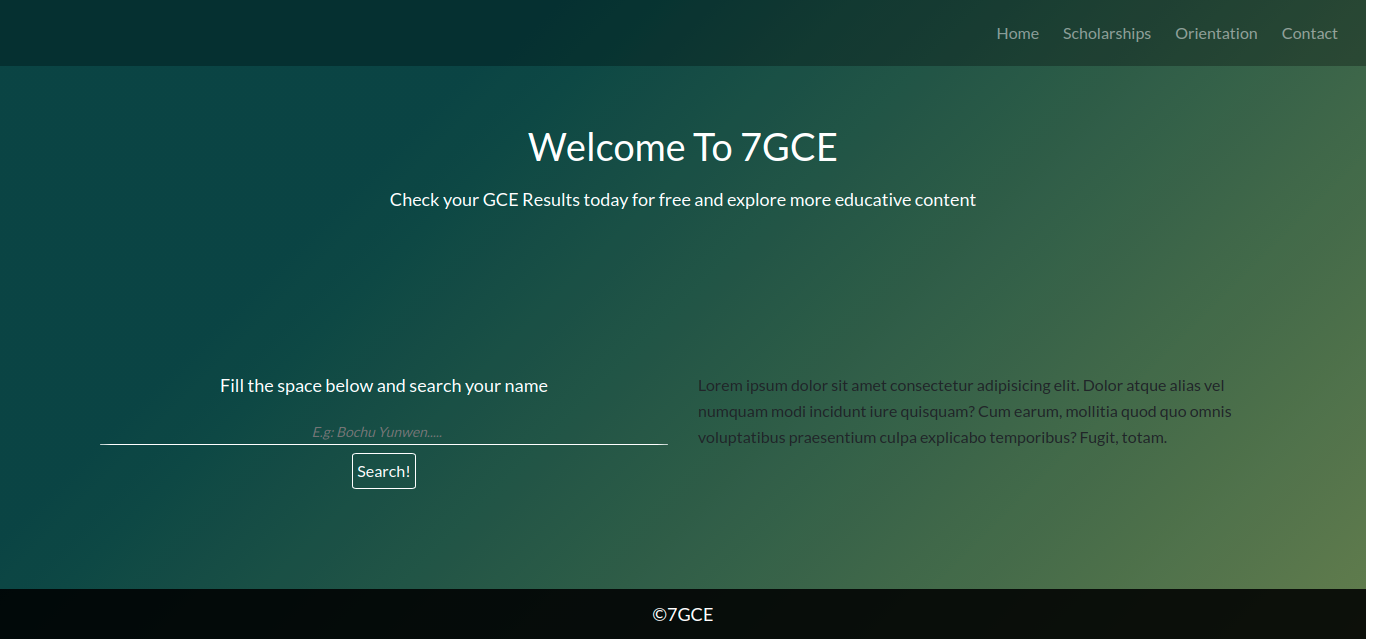
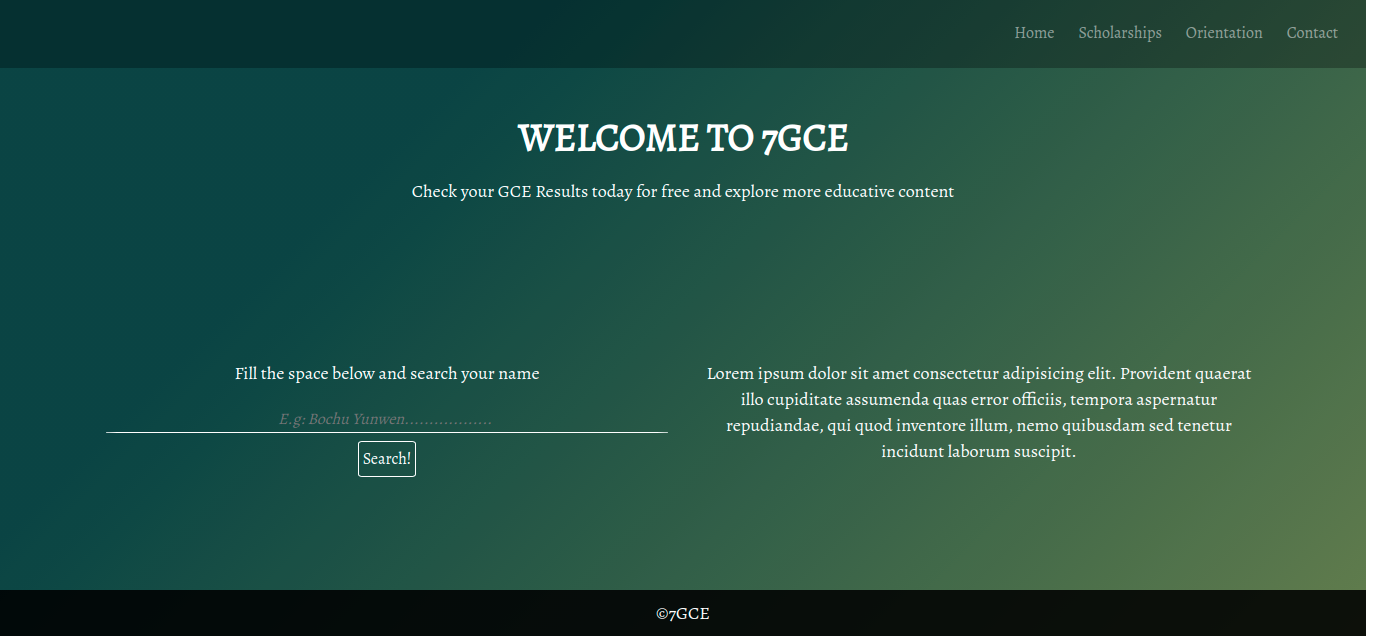
landing page update

diff --git a/index.html b/index.html
@@ -11,20 +11,27 @@
     <link rel="stylesheet" href="stylesheets/bootstrap-4/css/bootstrap.css" /> -->
 
     <!-- Online CDNs -->
-    <link href="https://stackpath.bootstrapcdn.com/bootstrap/4.5.0/css/bootstrap.min.css" rel="stylesheet"
-        integrity="sha384-9aIt2nRpC12Uk9gS9baDl411NQApFmC26EwAOH8WgZl5MYYxFfc+NcPb1dKGj7Sk" crossorigin="anonymous">
-    <script src="https://stackpath.bootstrapcdn.com/bootstrap/4.5.0/js/bootstrap.min.js"
-        integrity="sha384-OgVRvuATP1z7JjHLkuOU7Xw704+h835Lr+6QL9UvYjZE3Ipu6Tp75j7Bh/kR0JKI"
+    <meta name="viewport"
+        content="user-scalable=no, initial-scale=1, maximum-scale=1, minimum-scale=1, width=320, height=device-height, target-densitydpi=medium-dpi">
+    <link rel="stylesheet" href="https://maxcdn.bootstrapcdn.com/bootstrap/4.0.0/css/bootstrap.min.css"
+        integrity="sha384-Gn5384xqQ1aoWXA+058RXPxPg6fy4IWvTNh0E263XmFcJlSAwiGgFAW/dAiS6JXm" crossorigin="anonymous">
+    <script src="https://code.jquery.com/jquery-3.2.1.slim.min.js"
+        integrity="sha384-KJ3o2DKtIkvYIK3UENzmM7KCkRr/rE9/Qpg6aAZGJwFDMVNA/GpGFF93hXpG5KkN"
         crossorigin="anonymous"></script>
-    <script src="https://stackpath.bootstrapcdn.com/bootstrap/4.5.0/js/bootstrap.bundle.min.js"
-        integrity="sha384-1CmrxMRARb6aLqgBO7yyAxTOQE2AKb9GfXnEo760AUcUmFx3ibVJJAzGytlQcNXd"
+    <script src="https://cdnjs.cloudflare.com/ajax/libs/popper.js/1.12.9/umd/popper.min.js"
+        integrity="sha384-ApNbgh9B+Y1QKtv3Rn7W3mgPxhU9K/ScQsAP7hUibX39j7fakFPskvXusvfa0b4Q"
+        crossorigin="anonymous"></script>
+    <script src="https://maxcdn.bootstrapcdn.com/bootstrap/4.0.0/js/bootstrap.min.js"
+        integrity="sha384-JZR6Spejh4U02d8jOt6vLEHfe/JQGiRRSQQxSfFWpi1MquVdAyjUar5+76PVCmYl"
         crossorigin="anonymous"></script>
     <!-- css files -->
     <link rel="stylesheet" href="stylesheets/reset.css" />
     <link rel="stylesheet" href="stylesheets/main.css" />
 
     <!-- Fonts -->
-    <link href="https://fonts.googleapis.com/css2?family=Lato&display=swap" rel="stylesheet">
+    <!-- <link href="https://fonts.googleapis.com/css2?family=Lato&display=swap" rel="stylesheet">
+    <link href="https://fonts.googleapis.com/css2?family=Alegreya&display=swap" rel="stylesheet"> -->
+    <link href="https://fonts.googleapis.com/css2?family=Alegreya&family=B612&family=Lato&family=Muli:ital@1&display=swap" rel="stylesheet">
 
 
     <!-- Scripts -->
@@ -57,7 +64,7 @@
                     </button>
                 </nav>
                 <div class="hero">
-                    <h1>Welcome To 7GCE</h1>
+                    <h1>WELCOME TO 7GCE</h1>
                     <p>
                         Check your GCE Results today for free and explore more educative
                         content
@@ -70,14 +77,12 @@
         <section class="row firstcontainer">
             <div class="col-sm-6">
                 <p>Fill the space below and search your name</p>
-                <input type="search" name="" id="" placeholder="E.g: Bochu Yunwen....." required>
+                <input type="search" name="" id="" placeholder="E.g: Bochu Yunwen.................." required>
                 <!-- <input type="submit" value="submit"> -->
                 <button type="submit">Search!</button>
             </div>
             <div class="col-sm-6">
-                Lorem ipsum dolor sit amet consectetur adipisicing elit. Dolor atque alias vel numquam modi incidunt iure quisquam? Cum earum, mollitia quod quo omnis voluptatibus praesentium culpa explicabo temporibus? Fugit, totam.
-
-
+               <p>Lorem ipsum dolor sit amet consectetur adipisicing elit. Provident quaerat illo cupiditate assumenda quas error officiis, tempora aspernatur repudiandae, qui quod inventore illum, nemo quibusdam sed tenetur incidunt laborum suscipit.</p>
             </div>
         </section>
         <section>

diff --git a/stylesheets/main.css b/stylesheets/main.css
@@ -49,7 +49,12 @@ h2,
 h3,
 p,
 a {
-  font-family: lato;
+  /* font-family: lato; */
+  /* font-family: Alegreya; */
+  font-family: "Alegreya", "lato", "Muli", "B612", serif;
+  /* font-family: "B612", sans-serif; */
+  /* font-family: "Lato", sans-serif; */
+  /* font-family: "Muli", sans-serif; */
   font-weight: 400;
   line-height: 26px;
   color: #fff;
@@ -80,6 +85,7 @@ ul {
 a {
   text-decoration: none;
 }
+
 li {
   display: inline-block;
   margin: 4px;
@@ -90,6 +96,7 @@ li {
 /* ============================================================================= */
 header h1 {
   line-height: 40px;
+  font-weight: 600;
   /* background-color: rgb(112, 31, 204); */
   /* width: 100%; */
 }
@@ -110,6 +117,11 @@ header p {
   /* top: 20px; */
   width: 100%;
   text-align: center;
+  border-bottom: 2px solid #00000000;
+}
+
+.navbar-collapse li:hover {
+  border-bottom: 2px solid #ff5b3e;
 }
 /* .navbar-collapse li:hover {
   background-color: #d2691e;
@@ -118,7 +130,7 @@ header p {
 } */
 
 .hero {
-  padding: 60px;
+  padding: 50px;
   /* background-color: coral; */
 }
 
@@ -126,7 +138,7 @@ header p {
 /* SEARCH SECTION */
 /* ============================================================================= */
 .firstcontainer {
-  padding: 100px;
+  padding: 106px;
   /* background-color: coral; */
   /* margin-left: 20px; */
   /* width: 100%; */
@@ -144,7 +156,7 @@ input {
   border-radius: 2%;
   color: #fff;
   width: 100%;
-  text-align: center ;
+  text-align: center;
 }
 input:focus {
   background-color: #03444400;
@@ -153,7 +165,7 @@ input:focus {
 
 ::placeholder {
   font-style: italic;
-  font-size: 14px;
+  font-size: 16px;
   text-align: center;
 }
 
@@ -168,15 +180,11 @@ button {
   margin: 8px auto auto auto;
   transition: background color 1s ease;
 }
-button:focus {
-  /* background-color: #8f1d1d; */
-  /* outline: none; */
-}
+
 button:hover {
   /* background-color: #030444; */
   outline: none;
   transition: background color 1s ease;
-
 }
 /* ============================================================================= */
 /* FOOTER SECTION */
@@ -184,7 +192,7 @@ button:hover {
 footer {
   background-color: #000000df;
   margin-bottom: 0;
-  padding: 12px;
+  padding: 10px;
 }
 
 footer p {
